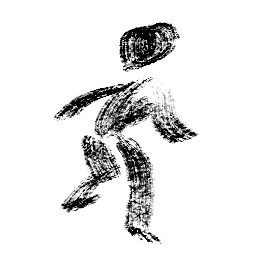
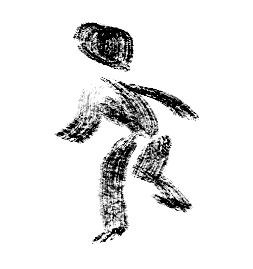
front and backward facing sprite code

Changed region(s): [[0.1937, 0.2677, 0.8024, 0.9219], [0.2767, 0.0595, 0.7194, 0.2677]]

diff --git a/Assets/Scripts/PlayerAnimation.cs b/Assets/Scripts/PlayerAnimation.cs
@@ -10,6 +10,7 @@ public class frame{
 public class PlayerAnimation : MonoBehaviour
 {
     [SerializeField] frame[] frames;
+    public Billboard billboardScript;
 
     [SerializeField] float timeBetweenFrames = 0.05f;
 
@@ -44,17 +45,34 @@ public class PlayerAnimation : MonoBehaviour
             SetTargetFrame(2);
         }
 
+        int faceUp = billboardScript.deltaAverage.y > 0 ? 0 : 1;
+        if(faceUp == 0){
+            Debug.Log("Back");
+        }else{
+            Debug.Log("Forward");
+        }
+
+        SetOrientation(faceUp);
+        spriteRenderer.sprite = frames[currentFrame].sprites[orientation];
+
         if (currentFrame != targetFrame)
         {
             if (Time.time- lastFrameTimestamp > timeBetweenFrames)
             {
                 currentFrame = (currentFrame + 1) % frames.Length;
-                spriteRenderer.sprite = frames[currentFrame].sprites[orientation];
                 lastFrameTimestamp = Time.time;
             }
-        }
+       }
     }
 
+    public void PumpLeg(){
+        if(targetFrame == 0){
+            SetTargetFrame(2);
+        }else{
+            SetTargetFrame(0);
+        }
+    }
+    
     private void TargetFrameChanged()
     {
         if (targetFrame != currentFrame)

diff --git a/Assets/Scripts/Billboard.cs b/Assets/Scripts/Billboard.cs
@@ -10,7 +10,7 @@ public class Billboard : MonoBehaviour
     float average = 60;
     [SerializeField] SpriteRenderer spriteRenderer;
     Vector3 lastPos;
-    Vector3 deltaAverage;
+    public Vector3 deltaAverage;
     [SerializeField] Transform lookTarget;
     
     void Start(){

diff --git a/Assets/Scripts/PlayerMovement.cs b/Assets/Scripts/PlayerMovement.cs
@@ -161,6 +161,7 @@ public class PlayerMovement : MonoBehaviour
     }
 
     void LeaveMark(){
+        animation.PumpLeg();
         trailTimer = 0;
         trail.emitting = false;
         Vector3[] linePoints = new Vector3[trail.positionCount];
